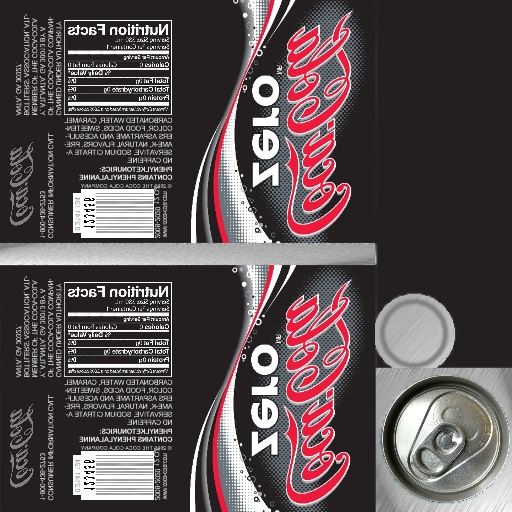
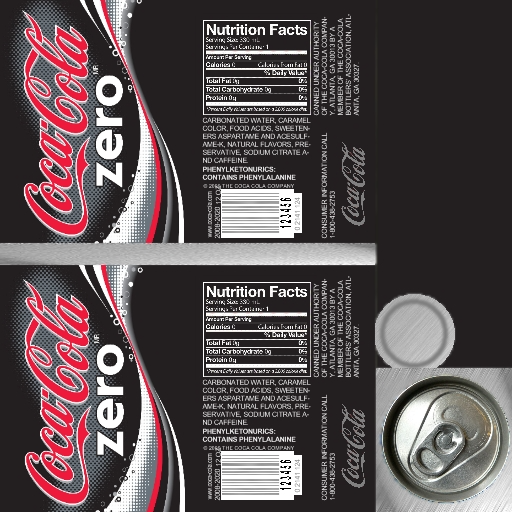
obj file's(z forward, y up) x coordinate is reversed.

diff --git a/app/src/main/cpp/utils/ObjHelper.cpp b/app/src/main/cpp/utils/ObjHelper.cpp
@@ -14,7 +14,7 @@
 static void readVertices(FILE *file, ObjHelper::ObjData *pObjData) {
     GLfloat x, y, z;
     fscanf(file, "%f %f %f\n", &x, &y, &z);
-    pObjData->vertices.push_back(x);
+    pObjData->vertices.push_back(-x); // obj文件(导出设置z forward，y up)的x坐标是反的。
     pObjData->vertices.push_back(y);
     pObjData->vertices.push_back(z);
 }
@@ -24,7 +24,7 @@ static void readVertices(FILE *file, ObjHelper::ObjData *pObjData) {
 static void readNormals(FILE *file, ObjHelper::ObjData *pObjData) {
     GLfloat x, y, z;
     fscanf(file, " %f %f %f\n", &x, &y, &z);
-    pObjData->normals.push_back(x);
+    pObjData->normals.push_back(-x); // obj文件(导出设置z forward，y up)的x坐标是反的。
     pObjData->normals.push_back(y);
     pObjData->normals.push_back(z);
 }

diff --git a/app/src/main/cpp/main.cpp b/app/src/main/cpp/main.cpp
@@ -129,7 +129,7 @@ static void on_handle_cmd(struct android_app *app, int32_t cmd) {
                 AndroidAssetUtils::init(app->activity->assetManager);
 
                 BaseShader::getSingletonProgram();
-                TextureUtils::loadSimpleTexture("cocacola.png");
+                TextureUtils::loadSimpleTexture("brown.png");
 
                 // 深度测试的基准,注意1.0代表从近裁剪面到远裁剪面 这一段范围！！并不是指Z轴的1个单位
                 // 深度，是一个normolized的值，范围是 0-1(不是z轴坐标)，对应Z轴是从近裁剪面到远裁剪面

diff --git a/app/src/main/cpp/view/ObjModel.cpp b/app/src/main/cpp/view/ObjModel.cpp
@@ -16,7 +16,7 @@ ObjModel::ObjModel(): Shape() {
 
     // assets目录下，文件后缀是png才能读到，否则会报错: no such file or directory.
     // 原因是：assets目录下的文件会进行压缩，所以读不到。而png会被认为是压缩文件，不会再次压缩。
-    const char *assetName = "blenderObjs/cocacola.png";
+    const char *assetName = "blenderObjs/roadmap.png";
     int fd = AndroidAssetUtils::openFdFromAsset(assetName);
     if (fd <= 0) {
         app_log("openFdFromAsset \"%s\" failed: err: %s\n", assetName, strerror(errno));
